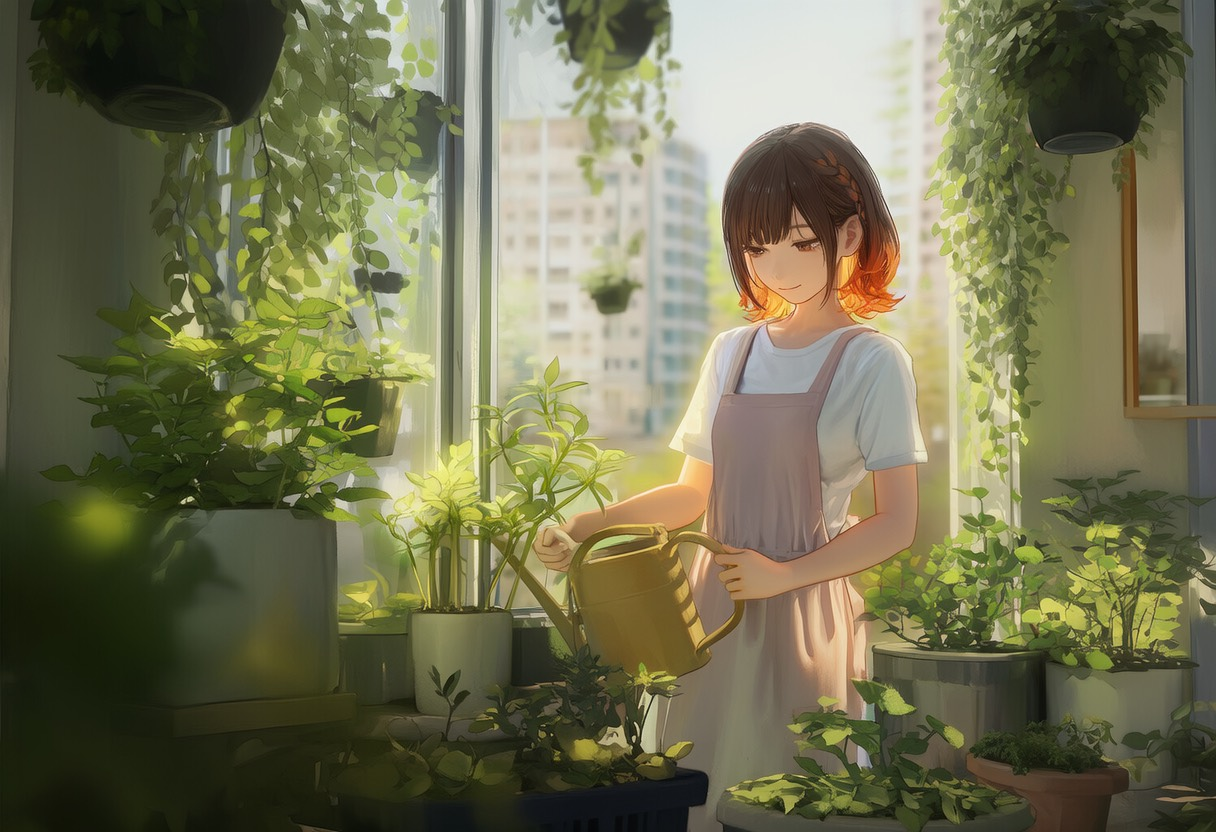
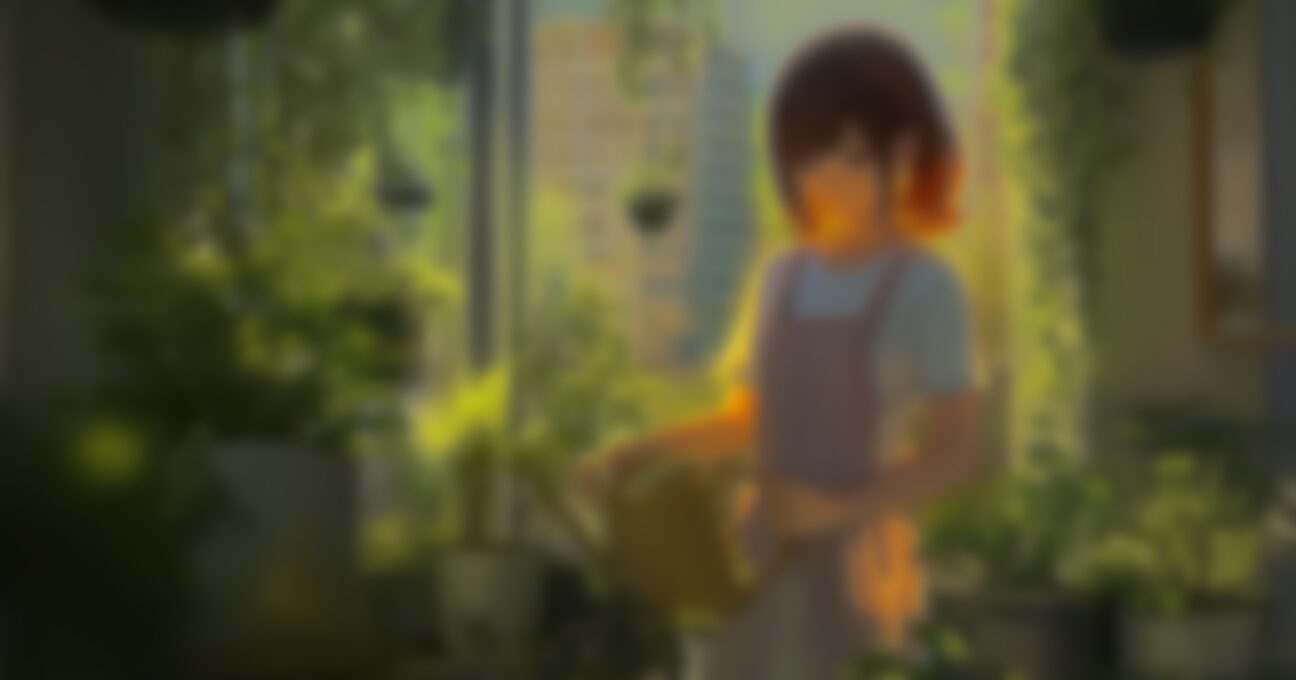
Optimize OG image rendering and cache busting

diff --git a/functions/_shared/og.js b/functions/_shared/og.js
@@ -1,5 +1,6 @@
 export const DEFAULT_API_BASE_URL = 'https://forum.shimmerday.top/v1';
 const SITE_NAME = '类脑索引';
+const OG_IMAGE_REVISION = '20260808-1x';
 
 export function cleanText(value) {
   return typeof value === 'string' ? value.trim() : '';
@@ -204,6 +205,7 @@ export function createShareMetadataHandler({
       const imageUrl = imagePath ? new URL(imagePath(resourceId), requestUrl) : null;
       const version = cleanText(data?.updated_at);
       if (imageUrl && version) imageUrl.searchParams.set('v', version);
+      if (imageUrl) imageUrl.searchParams.set('r', OG_IMAGE_REVISION);
       const metadata = buildMetadata(data, requestUrl.href, fallbackImage);
       if (imageUrl) metadata.image = imageUrl.href;
       return rewriteMetadata(

diff --git a/functions/_shared/og-image-template.js b/functions/_shared/og-image-template.js
@@ -43,7 +43,7 @@ function icon(name, size = 18, color = '#e4e4e7') {
 
 function background(data, images) {
   return [
-    h('img', { key: 'background', src: images[data.background].src, style: { position: 'absolute', top: '-4%', left: '-4%', width: '108%', height: '108%', objectFit: 'cover', filter: 'blur(8px) brightness(0.62) saturate(1.15)' } }),
+    h('img', { key: 'background', src: images[data.background].src, style: { position: 'absolute', top: '-4%', left: '-4%', width: '108%', height: '108%', objectFit: 'cover' } }),
     h('div', { key: 'overlay', style: { display: 'flex', position: 'absolute', inset: 0, backgroundImage: 'linear-gradient(105deg, rgba(9,11,16,0.18) 0%, rgba(9,11,16,0.58) 58%, rgba(9,11,16,0.88) 100%)' } }),
   ];
 }

diff --git a/functions/_shared/og-image.js b/functions/_shared/og-image.js
@@ -8,7 +8,7 @@ import { cleanText, DEFAULT_API_BASE_URL, safeHttpUrl } from './og.js';
 
 const WIDTH = 1200;
 const HEIGHT = 630;
-const SCALE = 2;
+const SCALE = 1;
 const BACKGROUNDS = ['apple', 'garden', 'railways', 'rainyday', 'roof', 'space', 'vending_machine'];
 const emojiCache = new Map();
 let wasmPromise;
